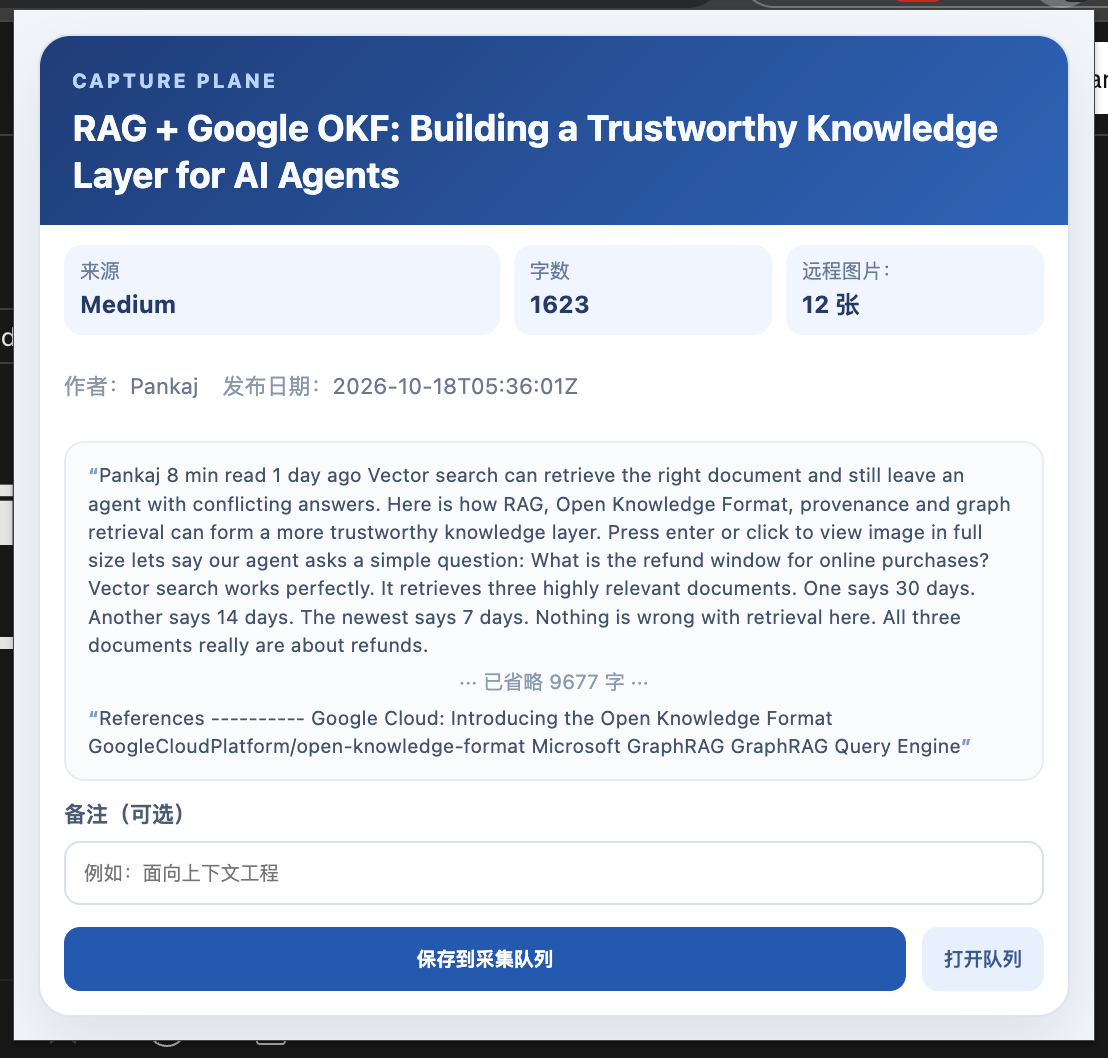
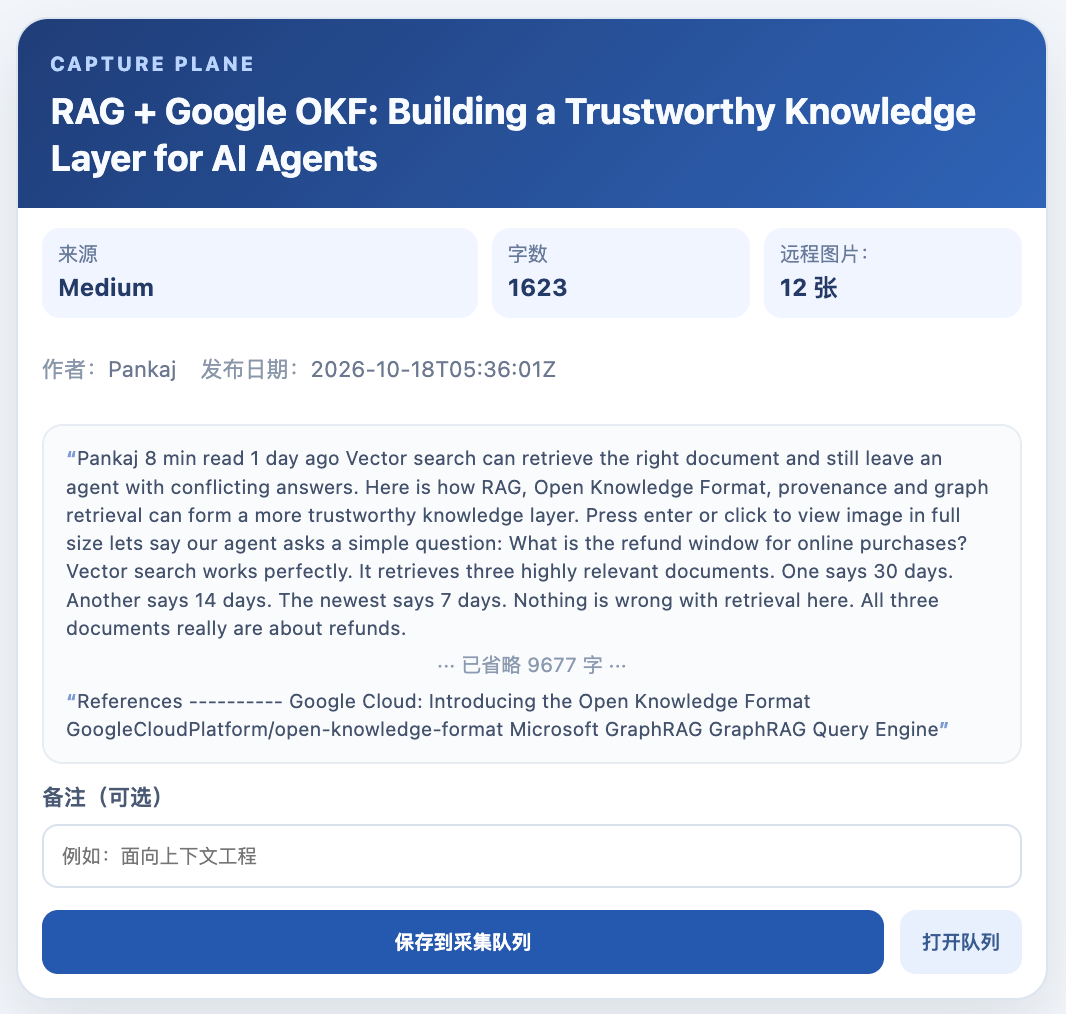
docs: 更新README中的采集预览图尺寸至300px
同步更新docs/images/capture-preview.png预览图片资源

Changed region(s): [[0.0, 0.0, 1.0, 1.0], [0.712, 0.2446, 0.8049, 0.3057], [0.4644, 0.2446, 0.5263, 0.3057]]

diff --git a/README.md b/README.md
@@ -17,7 +17,7 @@ Open Context Clipper 是一款开源 Chrome 扩展。打开文章后点击扩展
 在当前文章页点击扩展图标。弹窗会显示识别结果和正文预览；点击“保存到采集队列”后，文章才会进入本地队列。关闭弹窗不会保存。
 
 <p align="center">
-  <img src="docs/images/capture-preview.png" alt="采集预览弹窗：核对文章内容后保存到采集队列" width="554">
+  <img src="docs/images/capture-preview.png" alt="采集预览弹窗：核对文章内容后保存到采集队列" width="300">
 </p>
 
 ### 在浏览器窗口管理文章
